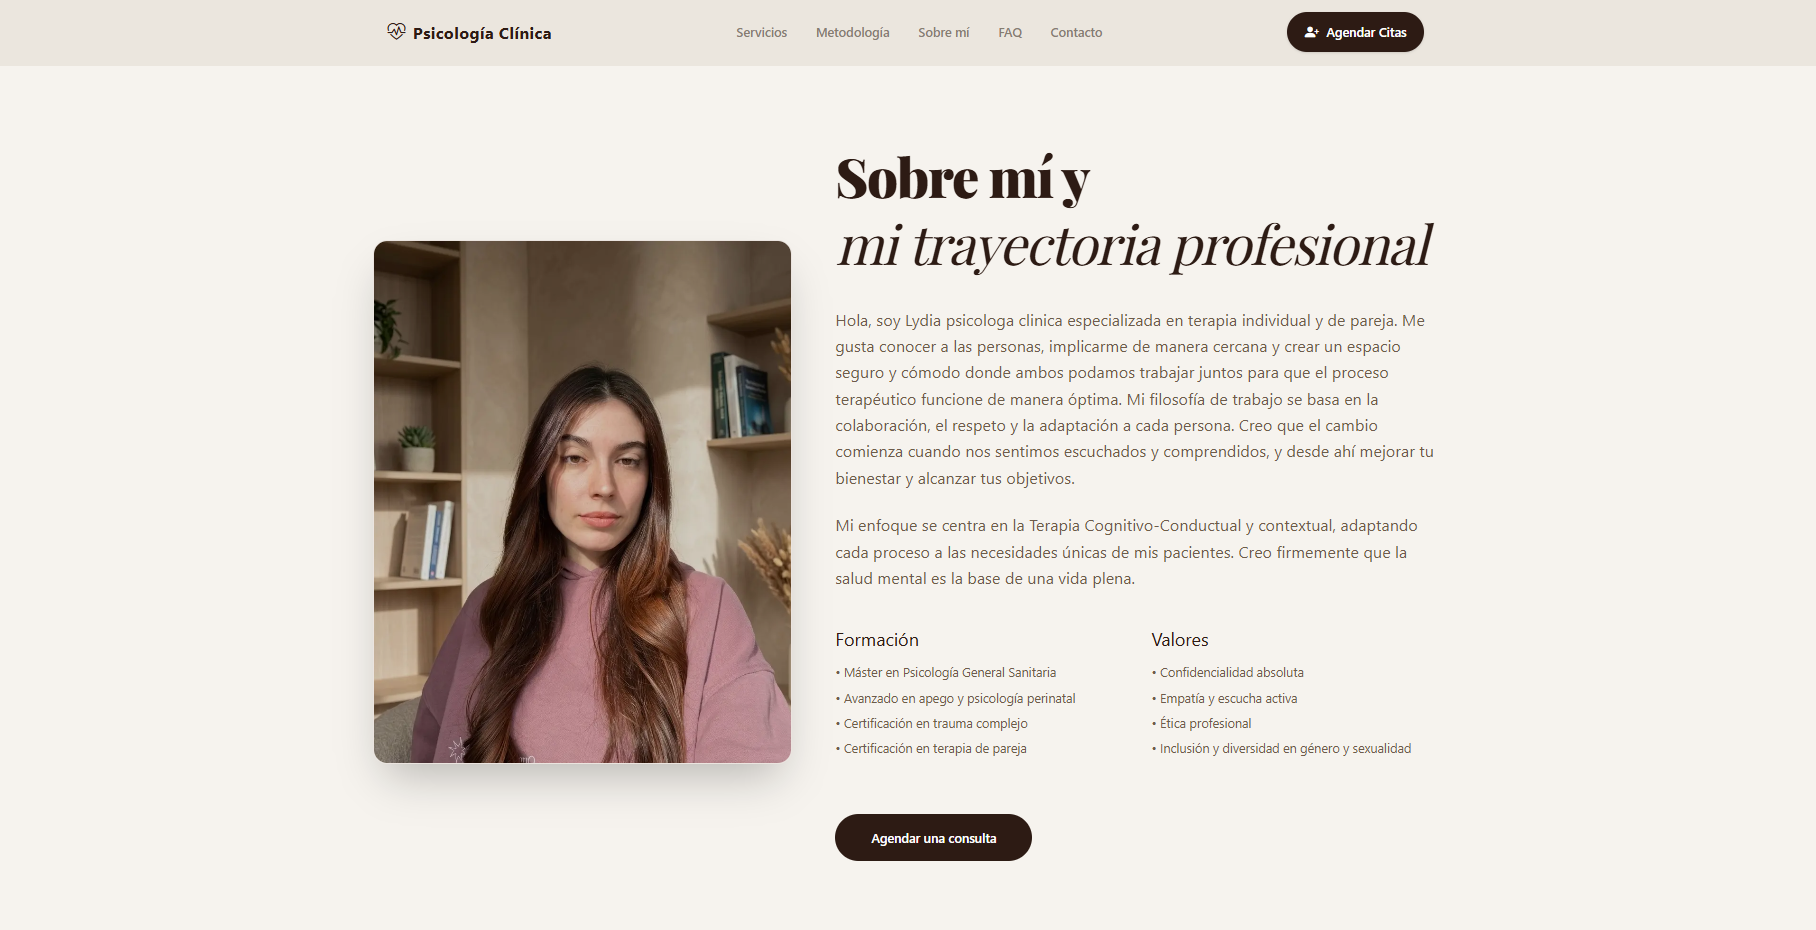
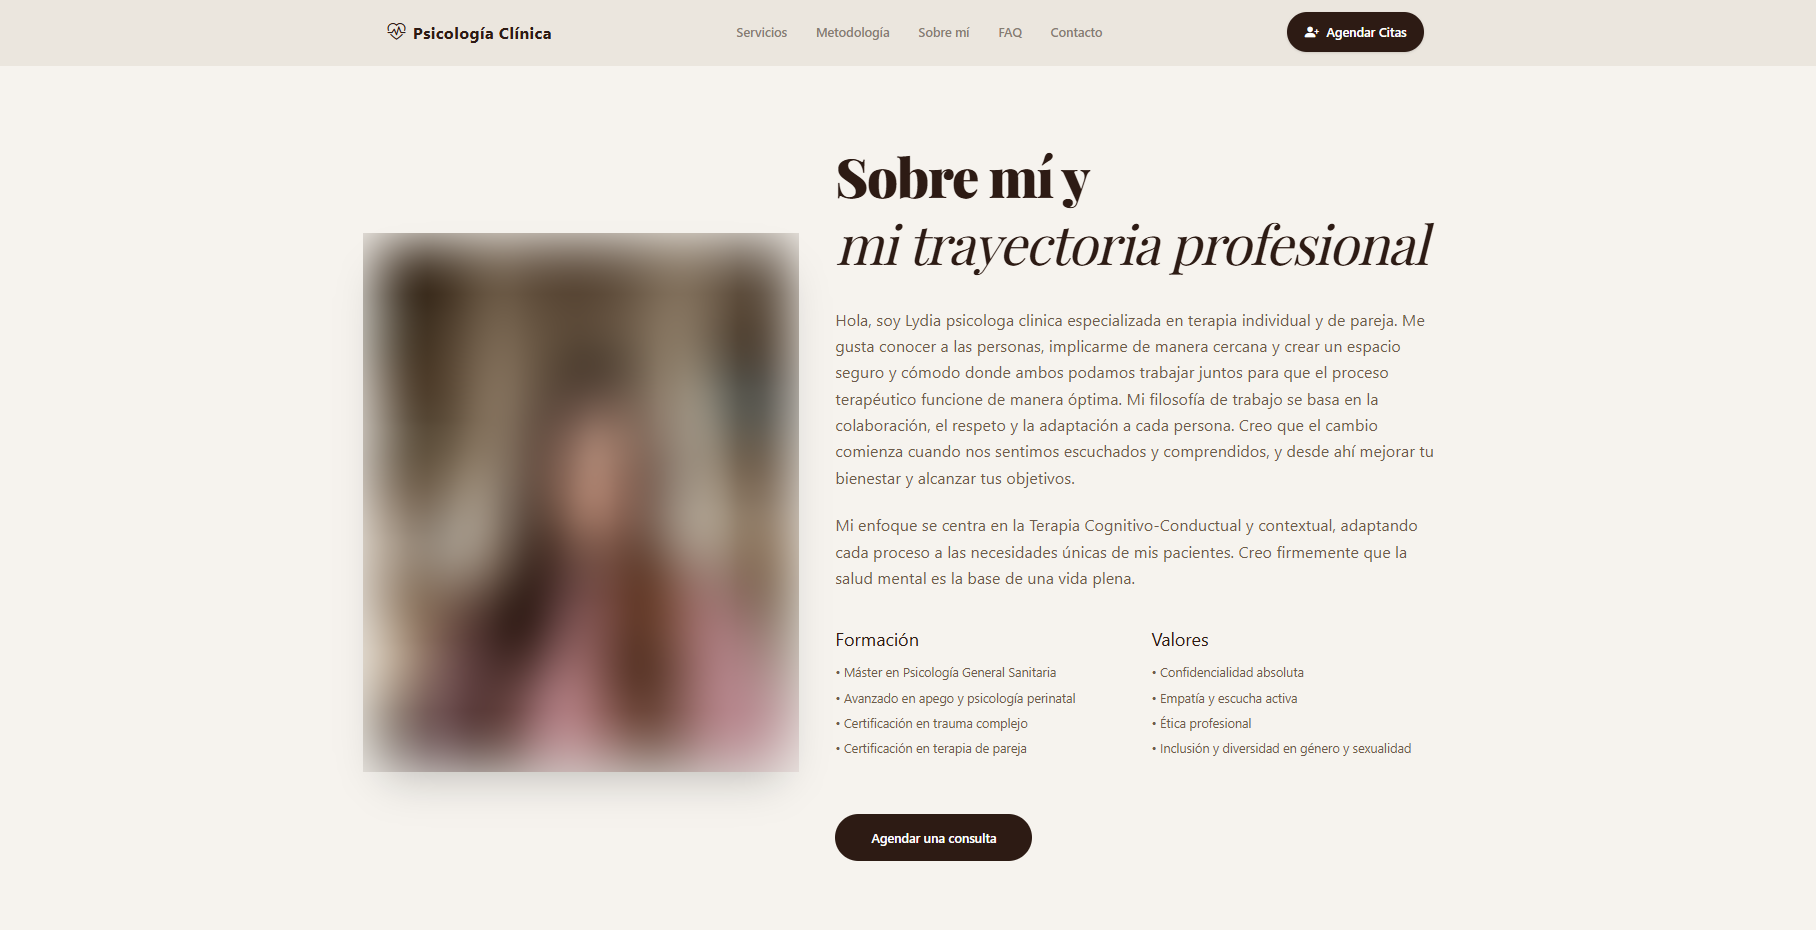
UPDATE Privacidad en capturas de Lydia y lint del Navbar
- Desenfoque de la foto de la clienta incrustado en las imágenes (antes era una capa CSS)
- Capturas renombradas a lydia-main.png y lydia-mobile.png para invalidar cachés
- Navbar sin setState dentro de efectos: el icono de tema se elige por CSS

Changed region(s): [[0.185, 0.2495, 0.4626, 0.8419]]

diff --git a/components/Navbar.tsx b/components/Navbar.tsx
@@ -27,17 +27,12 @@ export default function Navbar() {
   const [lastYPos, setLastYPos] = useState(0);
   const [activeSection, setActiveSection] = useState("home");
   const [isMenuOpen, setIsMenuOpen] = useState(false);
-  const { theme, setTheme } = useTheme();
-  const [mounted, setMounted] = useState(false);
+  const { resolvedTheme, setTheme } = useTheme();
   const pathname = usePathname();
+  const isAbout = pathname === '/about';
 
   useEffect(() => {
-    setMounted(true);
-
-    if (pathname === '/about') {
-      setActiveSection('about');
-      return;
-    }
+    if (isAbout) return;
 
     const observer = new IntersectionObserver(
       (entries) => {
@@ -63,7 +58,7 @@ export default function Navbar() {
       clearTimeout(timeoutId);
       observer.disconnect();
     };
-  }, [pathname]);
+  }, [isAbout]);
 
   // Prevent scroll when menu is open
   useEffect(() => {
@@ -105,7 +100,7 @@ export default function Navbar() {
   };
 
   const getLinkClass = (id: string, inMenu = false) => {
-    const isActive = activeSection === id;
+    const isActive = (isAbout ? 'about' : activeSection) === id;
     if (inMenu) {
       return `cond text-5xl font-bold uppercase transition-colors duration-300 ${
         isActive ? "text-accent" : "text-foreground"
@@ -156,15 +151,15 @@ export default function Navbar() {
           <a href={`mailto:${email}`} aria-label="Email" className={`${iconButton} hidden md:flex`}>
             <Mail size={18} />
           </a>
-          {mounted && (
-            <button
-              onClick={() => setTheme(theme === 'dark' ? 'light' : 'dark')}
-              className={iconButton}
-              aria-label="Toggle theme"
-            >
-              {theme === 'dark' ? <Sun size={18} /> : <Moon size={18} />}
-            </button>
-          )}
+          {/* Both icons render; the theme class picks one, so no mount check is needed */}
+          <button
+            onClick={() => setTheme(resolvedTheme === 'dark' ? 'light' : 'dark')}
+            className={iconButton}
+            aria-label="Toggle theme"
+          >
+            <Sun size={18} className="hidden dark:block" />
+            <Moon size={18} className="dark:hidden" />
+          </button>
 
           {/* Mobile Menu Toggle */}
           <button

diff --git a/lib/content.ts b/lib/content.ts
@@ -1,5 +1,3 @@
-import type { CSSProperties } from "react";
-
 type Shot = { light: string; dark: string; width: number; height: number };
 
 export type Project = {
@@ -13,8 +11,6 @@ export type Project = {
   stats: [string, string][];
   main: Shot;
   mobile: Shot;
-  // Client photo regions hidden for privacy, as % of each frame
-  blur?: { main: CSSProperties; mobile: CSSProperties };
 };
 
 export const projects: Project[] = [
@@ -48,12 +44,9 @@ export const projects: Project[] = [
       ["4", "Legal Pages"],
       ["SSG", "Rendering"],
     ],
-    main: { light: "/main.png", dark: "/main.png", width: 1818, height: 933 },
-    mobile: { light: "/mobile.png", dark: "/mobile.png", width: 387, height: 841 },
-    blur: {
-      main: { left: "50%", top: "10%", width: "34%", height: "68%" },
-      mobile: { left: 0, right: 0, top: "16%", bottom: "12%" },
-    },
+    // The client photo is blurred in the image files themselves
+    main: { light: "/lydia-main.png", dark: "/lydia-main.png", width: 1818, height: 933 },
+    mobile: { light: "/lydia-mobile.png", dark: "/lydia-mobile.png", width: 387, height: 841 },
   },
 ];
 

diff --git a/components/Work.tsx b/components/Work.tsx
@@ -96,10 +96,10 @@ export default function Work() {
 
             <div className="relative pb-[9%] pr-[12%]">
               <div className="work-main relative overflow-hidden border border-line" data-speed="0.5">
-                <Shot shot={p.main} alt={`${p.title} desktop`} sizes="(min-width: 768px) 50vw, 85vw" className="h-auto w-full" blur={p.blur?.main} />
+                <Shot shot={p.main} alt={`${p.title} desktop`} sizes="(min-width: 768px) 50vw, 85vw" className="h-auto w-full" />
               </div>
               <div className="work-mob absolute bottom-0 right-0 aspect-[9/16] w-[22%] overflow-hidden border border-line shadow-[0_24px_50px_-18px_rgba(0,0,0,0.45)]" data-speed="-1.3">
-                <Shot shot={p.mobile} alt={`${p.title} mobile`} sizes="(min-width: 768px) 13vw, 20vw" className="h-full w-full object-cover object-top" blur={p.blur?.mobile} />
+                <Shot shot={p.mobile} alt={`${p.title} mobile`} sizes="(min-width: 768px) 13vw, 20vw" className="h-full w-full object-cover object-top" />
               </div>
             </div>
           </div>

diff --git a/components/Shot.tsx b/components/Shot.tsx
@@ -1,4 +1,3 @@
-import type { CSSProperties } from "react";
 import Image from "next/image";
 
 type Props = {
@@ -6,11 +5,10 @@ type Props = {
   alt: string;
   sizes: string;
   className?: string;
-  blur?: CSSProperties;
 };
 
-// Project screenshot that follows the active theme, with an optional privacy blur region.
-export default function Shot({ shot, alt, sizes, className = "", blur }: Props) {
+// Project screenshot that follows the active theme.
+export default function Shot({ shot, alt, sizes, className = "" }: Props) {
   const themed = shot.light !== shot.dark;
   return (
     <>
@@ -25,8 +23,6 @@ export default function Shot({ shot, alt, sizes, className = "", blur }: Props) 
       {themed && (
         <Image src={shot.light} width={shot.width} height={shot.height} sizes={sizes} alt={alt} className={`${className} dark:hidden`} />
       )}
-      {/* Privacy blur for the client's photo */}
-      {blur && <div className="privacy-blur pointer-events-none absolute" style={blur} />}
     </>
   );
 }

diff --git a/app/globals.css b/app/globals.css
@@ -108,17 +108,6 @@
   }
 }
 
-.privacy-blur {
-  -webkit-backdrop-filter: blur(16px);
-  backdrop-filter: blur(16px);
-}
-
-@supports not ((backdrop-filter: blur(1px)) or (-webkit-backdrop-filter: blur(1px))) {
-  .privacy-blur {
-    background: #cdbfb3;
-  }
-}
-
 @media (prefers-reduced-motion: reduce) {
   html {
     scroll-behavior: auto;
